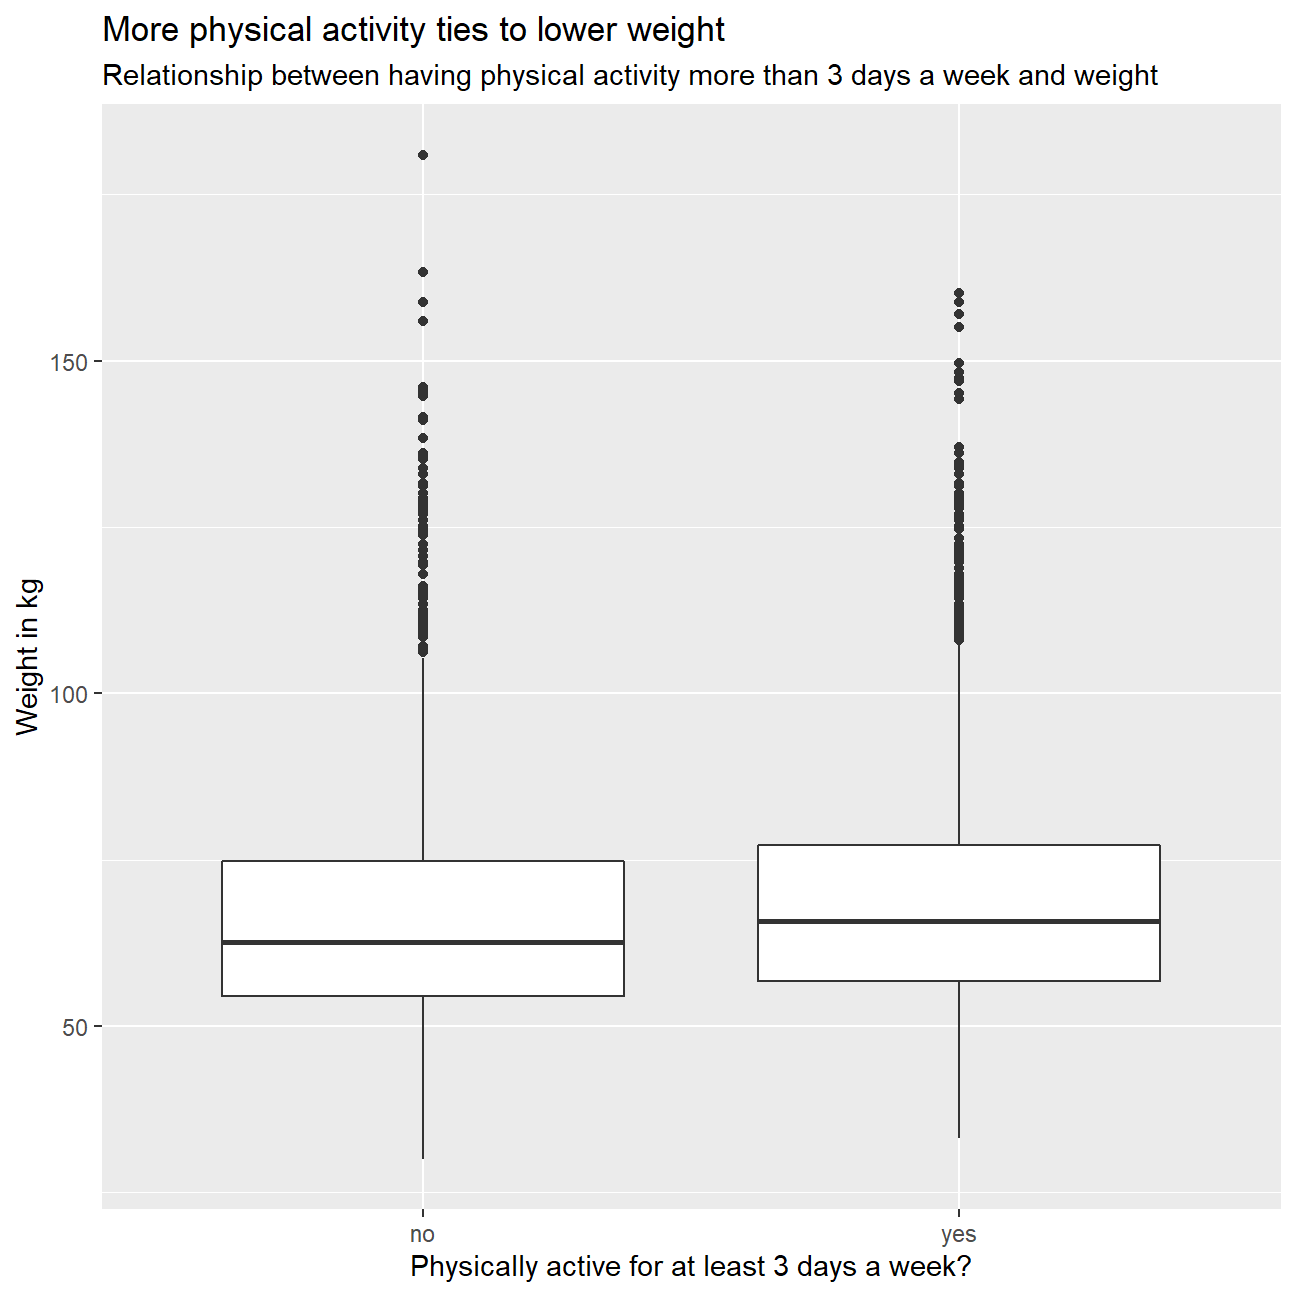
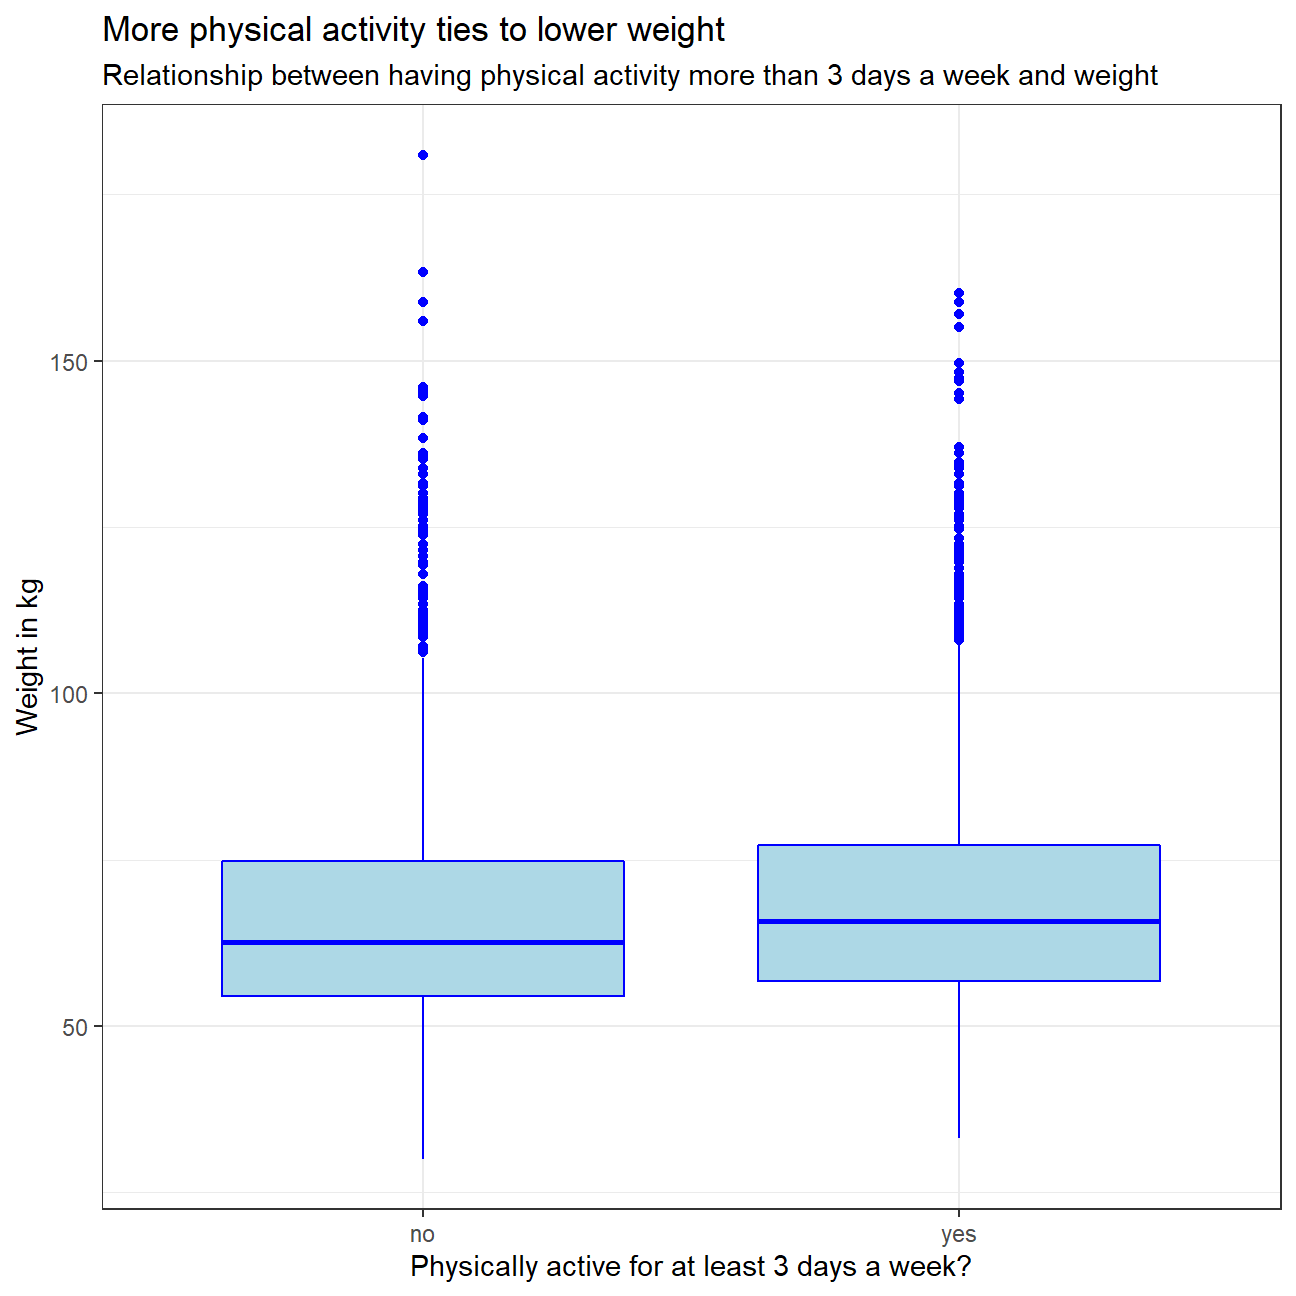
final

diff --git a/content/projects/project5/pj5.html b/content/projects/project5/pj5.html
@@ -1,7 +1,7 @@
 ---
 title: "Youth Risk Behavior Surveillance"
 author: "Julia Zhu"
-date: "2020-10-7"
+date: "2020-10-07"
 image: "pj5.jpg"
 output:
   html_document:
@@ -595,14 +595,52 @@ strength_training_7d
             min=min(weight),
             max=max(weight))
 
-
-  weight # show summary statistics</code></pre>
-<pre><code>## # A tibble: 1 x 5
-##    mean    SD median   min   max
-##   &lt;dbl&gt; &lt;dbl&gt;  &lt;dbl&gt; &lt;dbl&gt; &lt;dbl&gt;
-## 1  67.9  16.9   64.4  29.9  181.</code></pre>
+# show summary statistics
+weight%&gt;%
+  kbl()%&gt;%
+  kable_styling()</code></pre>
+<table class="table" style="margin-left: auto; margin-right: auto;">
+<thead>
+<tr>
+<th style="text-align:right;">
+mean
+</th>
+<th style="text-align:right;">
+SD
+</th>
+<th style="text-align:right;">
+median
+</th>
+<th style="text-align:right;">
+min
+</th>
+<th style="text-align:right;">
+max
+</th>
+</tr>
+</thead>
+<tbody>
+<tr>
+<td style="text-align:right;">
+67.9
+</td>
+<td style="text-align:right;">
+16.9
+</td>
+<td style="text-align:right;">
+64.4
+</td>
+<td style="text-align:right;">
+29.9
+</td>
+<td style="text-align:right;">
+181
+</td>
+</tr>
+</tbody>
+</table>
 <pre class="r"><code>ggplot(yrbss,aes(x=weight)) + #graph the density plot of weights
-  geom_density()+ 
+  geom_density(fill=&quot;light blue&quot;,color=&quot;blue&quot;)+ 
   labs(title=&quot;Distribution of weights has positive skew&quot;)+
   xlab(&quot;Weight in kg&quot;)+ 
   theme_bw()+
@@ -650,7 +688,7 @@ upper_ci
 0.323
 </td>
 <td style="text-align:right;">
-0.338
+0.339
 </td>
 </tr>
 </tbody>
@@ -666,11 +704,12 @@ upper_ci
   filter(physical_3plus!=&quot;NA&quot;) #filtering out observations that have missing values of &#39;physical_3plus&#39;
 
 ggplot(yrbss1,aes(x=physical_3plus,y=weight))+
-  geom_boxplot()+
+  geom_boxplot(fill=&quot;light blue&quot;,color=&quot;blue&quot;)+
   labs(title =&quot;More physical activity ties to lower weight&quot;,
        subtitle = &quot;Relationship between having physical activity more than 3 days a week and weight&quot;,
        x=&quot;Physically active for at least 3 days a week?&quot;,
        y=&quot;Weight in kg&quot;)+
+  theme_bw()+
   NULL</code></pre>
 <p><img src="/projects/project5/pj5_files/figure-html/boxplot-1.png" width="100%" style="display: block; margin: auto;" /></p>
 <p>The results are partly counterintuitive, as the boxplot graph shows that the median weight of those who workout 3 or more times a week is slightly higher than the median of those who don’t. However, we have to keep in mind that in the group “No” we have data not only for those who do not work out at all, but also people who work out less than 3 times a week. A rationale for the higher median weight could be that people who work out more than 3 times a week have a goal of building more muscle vs. losing weight. Hence, higher median weight. To further explain the intuition behind it, we would need to at least split the “No” group into observations that are physically active 1-2 days a week, and those who are not active at all.</p>
@@ -731,16 +770,16 @@ H1: difference in means of students who are physically active 3 or more days a w
   calculate(stat = &quot;diff in means&quot;, order = c(&quot;yes&quot;, &quot;no&quot;))</code></pre>
 <p>We can visualize this null distribution with the following code:</p>
 <pre class="r"><code>ggplot(data = null_dist, aes(x = stat)) +
-  geom_histogram()+
+  geom_histogram(fill=&quot;light blue&quot;,color=&quot;blue&quot;)+
   labs(title=&quot;The null distribution is normal&quot;)+
-  theme_stata()+
+  theme_bw()+
   NULL</code></pre>
 <p><img src="/projects/project5/pj5_files/figure-html/dis-1.png" width="100%" style="display: block; margin: auto;" /></p>
 <p>Now that the test is initialized and the null distribution formed, we can visualise to see how many of these null permutations have a difference of at least <code>obs_stat</code> of 1.77?</p>
 <p>We can also calculate the p-value for the hypothesis test using the function <code>infer::get_p_value()</code>.</p>
 <pre class="r"><code>null_dist %&gt;% visualize() +
   shade_p_value(obs_stat = obs_diff, direction = &quot;two-sided&quot;)</code></pre>
-<p><img src="/projects/project5/pj5_files/figure-html/unnamed-chunk-5-1.png" width="648" style="display: block; margin: auto;" /></p>
+<p><img src="/projects/project5/pj5_files/figure-html/unnamed-chunk-5-1.png" width="100%" style="display: block; margin: auto;" /></p>
 <pre class="r"><code>null_dist %&gt;%
   get_p_value(obs_stat = obs_diff, direction = &quot;two_sided&quot;)</code></pre>
 <pre><code>## # A tibble: 1 x 1

diff --git a/public/projects/project5/pj5/index.html b/public/projects/project5/pj5/index.html
@@ -659,14 +659,52 @@ strength_training_7d
             min=min(weight),
             max=max(weight))
 
-
-  weight # show summary statistics</code></pre>
-<pre><code>## # A tibble: 1 x 5
-##    mean    SD median   min   max
-##   &lt;dbl&gt; &lt;dbl&gt;  &lt;dbl&gt; &lt;dbl&gt; &lt;dbl&gt;
-## 1  67.9  16.9   64.4  29.9  181.</code></pre>
+# show summary statistics
+weight%&gt;%
+  kbl()%&gt;%
+  kable_styling()</code></pre>
+<table class="table" style="margin-left: auto; margin-right: auto;">
+<thead>
+<tr>
+<th style="text-align:right;">
+mean
+</th>
+<th style="text-align:right;">
+SD
+</th>
+<th style="text-align:right;">
+median
+</th>
+<th style="text-align:right;">
+min
+</th>
+<th style="text-align:right;">
+max
+</th>
+</tr>
+</thead>
+<tbody>
+<tr>
+<td style="text-align:right;">
+67.9
+</td>
+<td style="text-align:right;">
+16.9
+</td>
+<td style="text-align:right;">
+64.4
+</td>
+<td style="text-align:right;">
+29.9
+</td>
+<td style="text-align:right;">
+181
+</td>
+</tr>
+</tbody>
+</table>
 <pre class="r"><code>ggplot(yrbss,aes(x=weight)) + #graph the density plot of weights
-  geom_density()+ 
+  geom_density(fill=&quot;light blue&quot;,color=&quot;blue&quot;)+ 
   labs(title=&quot;Distribution of weights has positive skew&quot;)+
   xlab(&quot;Weight in kg&quot;)+ 
   theme_bw()+
@@ -714,7 +752,7 @@ upper_ci
 0.323
 </td>
 <td style="text-align:right;">
-0.338
+0.339
 </td>
 </tr>
 </tbody>
@@ -730,11 +768,12 @@ upper_ci
   filter(physical_3plus!=&quot;NA&quot;) #filtering out observations that have missing values of &#39;physical_3plus&#39;
 
 ggplot(yrbss1,aes(x=physical_3plus,y=weight))+
-  geom_boxplot()+
+  geom_boxplot(fill=&quot;light blue&quot;,color=&quot;blue&quot;)+
   labs(title =&quot;More physical activity ties to lower weight&quot;,
        subtitle = &quot;Relationship between having physical activity more than 3 days a week and weight&quot;,
        x=&quot;Physically active for at least 3 days a week?&quot;,
        y=&quot;Weight in kg&quot;)+
+  theme_bw()+
   NULL</code></pre>
 <p><img src="/projects/project5/pj5_files/figure-html/boxplot-1.png" width="100%" style="display: block; margin: auto;" /></p>
 <p>The results are partly counterintuitive, as the boxplot graph shows that the median weight of those who workout 3 or more times a week is slightly higher than the median of those who don’t. However, we have to keep in mind that in the group “No” we have data not only for those who do not work out at all, but also people who work out less than 3 times a week. A rationale for the higher median weight could be that people who work out more than 3 times a week have a goal of building more muscle vs. losing weight. Hence, higher median weight. To further explain the intuition behind it, we would need to at least split the “No” group into observations that are physically active 1-2 days a week, and those who are not active at all.</p>
@@ -795,16 +834,16 @@ H1: difference in means of students who are physically active 3 or more days a w
   calculate(stat = &quot;diff in means&quot;, order = c(&quot;yes&quot;, &quot;no&quot;))</code></pre>
 <p>We can visualize this null distribution with the following code:</p>
 <pre class="r"><code>ggplot(data = null_dist, aes(x = stat)) +
-  geom_histogram()+
+  geom_histogram(fill=&quot;light blue&quot;,color=&quot;blue&quot;)+
   labs(title=&quot;The null distribution is normal&quot;)+
-  theme_stata()+
+  theme_bw()+
   NULL</code></pre>
 <p><img src="/projects/project5/pj5_files/figure-html/dis-1.png" width="100%" style="display: block; margin: auto;" /></p>
 <p>Now that the test is initialized and the null distribution formed, we can visualise to see how many of these null permutations have a difference of at least <code>obs_stat</code> of 1.77?</p>
 <p>We can also calculate the p-value for the hypothesis test using the function <code>infer::get_p_value()</code>.</p>
 <pre class="r"><code>null_dist %&gt;% visualize() +
   shade_p_value(obs_stat = obs_diff, direction = &quot;two-sided&quot;)</code></pre>
-<p><img src="/projects/project5/pj5_files/figure-html/unnamed-chunk-5-1.png" width="648" style="display: block; margin: auto;" /></p>
+<p><img src="/projects/project5/pj5_files/figure-html/unnamed-chunk-5-1.png" width="100%" style="display: block; margin: auto;" /></p>
 <pre class="r"><code>null_dist %&gt;%
   get_p_value(obs_stat = obs_diff, direction = &quot;two_sided&quot;)</code></pre>
 <pre><code>## # A tibble: 1 x 1

diff --git a/public/projects/index.html b/public/projects/index.html
@@ -104,6 +104,23 @@
                     </section>
                     
                     <section>
+                        <a href="/projects/project5/pj5/" class="image">
+							<img src="/img/projects/pj5.jpg" alt="" data-position="center center" />
+						</a>
+                        <div class="content">
+                            <div class="inner">
+                                <header class="major">
+                                    <h3>Youth Risk Behavior Surveillance</h3>
+                                </header>
+                                <p></p>
+                                <ul class="actions">
+                                    <li><a href="/projects/project5/pj5/" class="button">Learn more</a></li>
+                                </ul>
+                            </div>
+                        </div>
+                    </section>
+                    
+                    <section>
                         <a href="/projects/project3/bikes/" class="image">
 							<img src="/img/projects/pj3.jpg" alt="" data-position="center center" />
 						</a>
@@ -166,23 +183,6 @@
                                 <p></p>
                                 <ul class="actions">
                                     <li><a href="/projects/project0/short-biography/" class="button">Learn more</a></li>
-                                </ul>
-                            </div>
-                        </div>
-                    </section>
-                    
-                    <section>
-                        <a href="/projects/project5/pj5/" class="image">
-							<img src="/img/projects/pj5.jpg" alt="" data-position="center center" />
-						</a>
-                        <div class="content">
-                            <div class="inner">
-                                <header class="major">
-                                    <h3>Youth Risk Behavior Surveillance</h3>
-                                </header>
-                                <p></p>
-                                <ul class="actions">
-                                    <li><a href="/projects/project5/pj5/" class="button">Learn more</a></li>
                                 </ul>
                             </div>
                         </div>

diff --git a/content/blogs/blog2/blog2.html b/content/blogs/blog2/blog2.html
@@ -14,7 +14,7 @@ title: "Exchange @ Schulich School of Business "
 
 
 <p>I had an exchange experience studying in Schulich School of Business in Toronto, Canada. During the exchange term, I applied 2 different investment strategies in the US stock market and comleted the group investment project using Stocktreck, a platform for virtual investment. And I got to know many good friends in this process.</p>
-<p>Apart from studying, I also visited many places in Canada, such as the Niagara Falls, and Yellowknife. I like the dry seasons and really enjoyed my exchange life in this country.</p>
+<p>Apart from studying, I also visited many places in Canada, such as the Niagara Falls, and Yellowknife. I like the weather here and I really enjoy my exchange life in this country.</p>
 <pre class="r"><code>knitr::include_graphics(&quot;/img/blogs/niagara.jpg&quot;,error = FALSE)</code></pre>
 <p><img src="/img/blogs/niagara.jpg" width="100%" /></p>
 <pre class="r"><code>knitr::include_graphics(&quot;/img/blogs/yellowknife.jpg&quot;,error = FALSE)</code></pre>

diff --git a/public/blogs/blog2/blog2/index.html b/public/blogs/blog2/blog2/index.html
@@ -80,7 +80,7 @@
 
 
 <p>I had an exchange experience studying in Schulich School of Business in Toronto, Canada. During the exchange term, I applied 2 different investment strategies in the US stock market and comleted the group investment project using Stocktreck, a platform for virtual investment. And I got to know many good friends in this process.</p>
-<p>Apart from studying, I also visited many places in Canada, such as the Niagara Falls, and Yellowknife. I like the dry seasons and really enjoyed my exchange life in this country.</p>
+<p>Apart from studying, I also visited many places in Canada, such as the Niagara Falls, and Yellowknife. I like the weather here and I really enjoy my exchange life in this country.</p>
 <pre class="r"><code>knitr::include_graphics(&quot;/img/blogs/niagara.jpg&quot;,error = FALSE)</code></pre>
 <p><img src="/img/blogs/niagara.jpg" width="100%" /></p>
 <pre class="r"><code>knitr::include_graphics(&quot;/img/blogs/yellowknife.jpg&quot;,error = FALSE)</code></pre>

diff --git a/public/index.html b/public/index.html
@@ -71,7 +71,7 @@
                 <h1>Hi, my name is Mengting Zhu, and you can call me Julia!</h1>
             </header>
             <div class="content">
-                <p>A portfolio site of my work</p>
+                <p>Welcome to my portfolio website</p>
                 <ul class="actions">
                     <li><a href="#one" class="button next scrolly">Get Started</a></li>
                 </ul>
